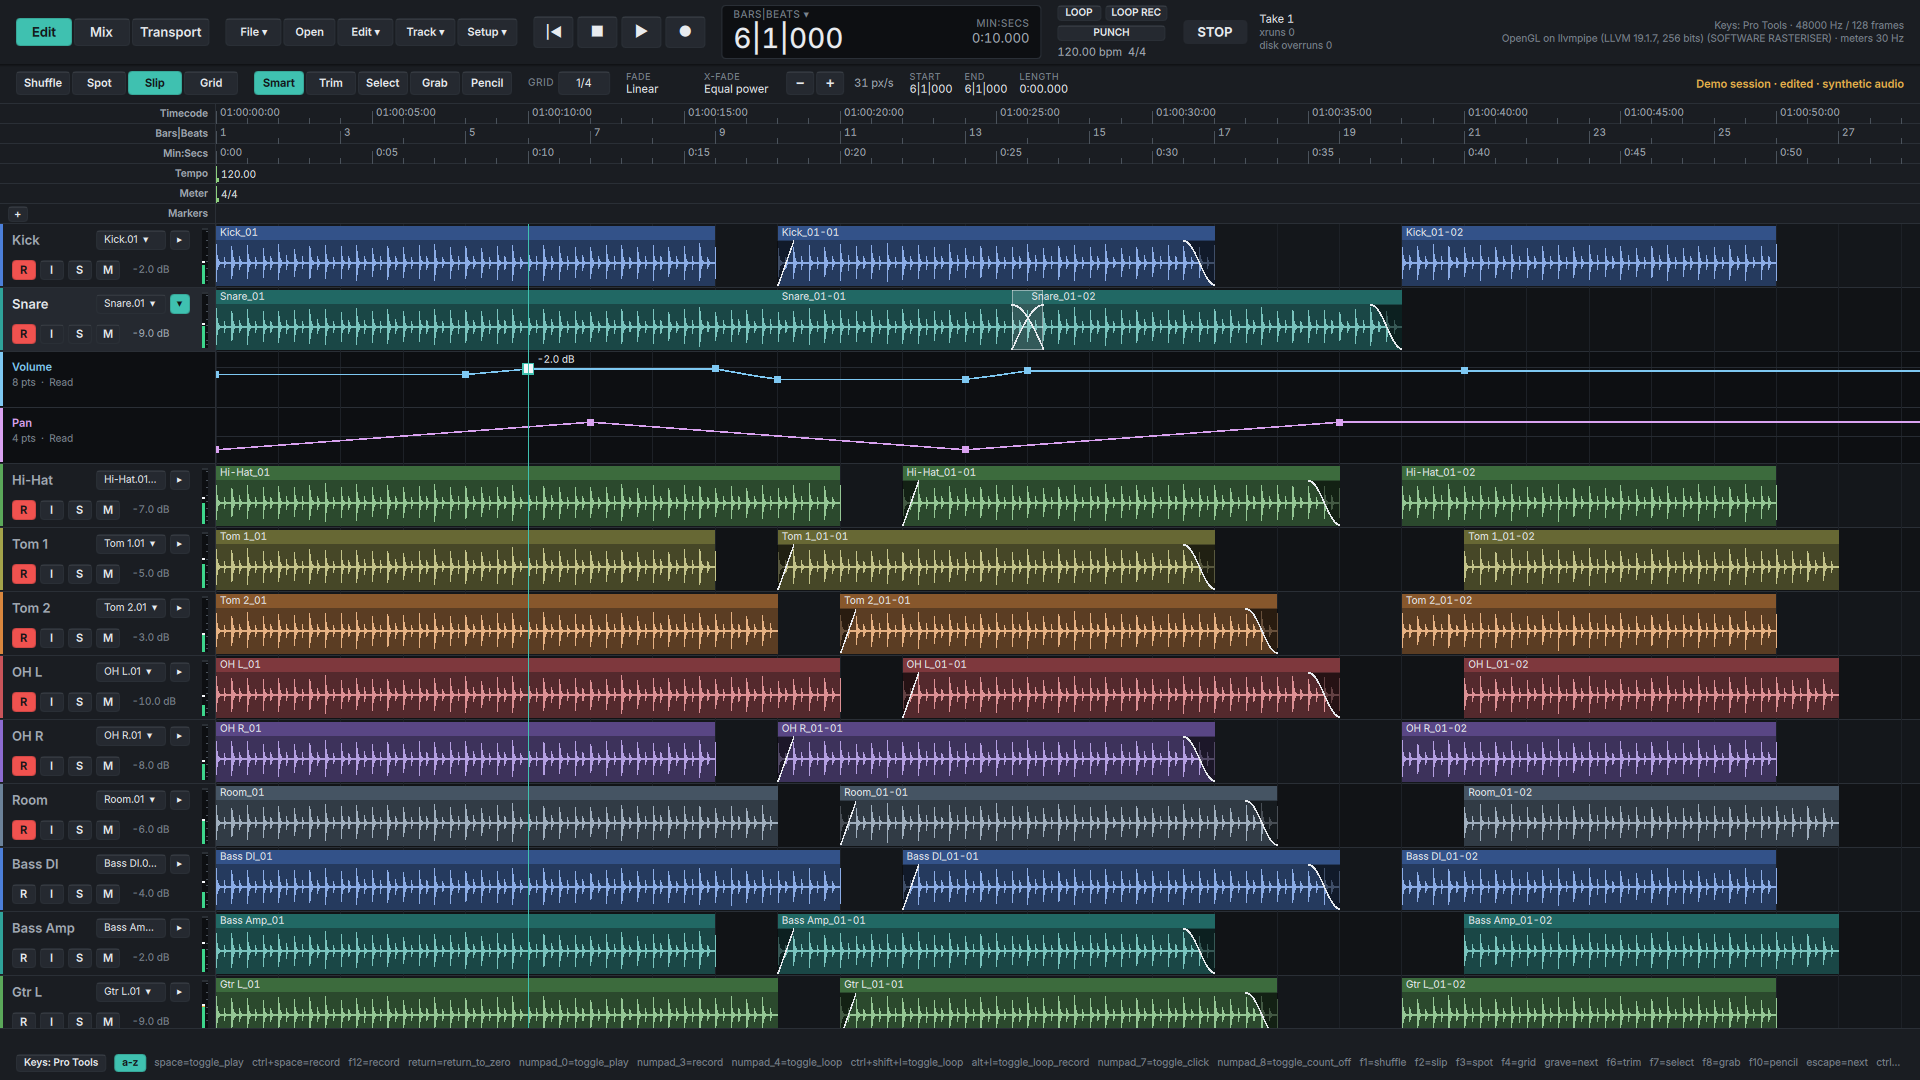
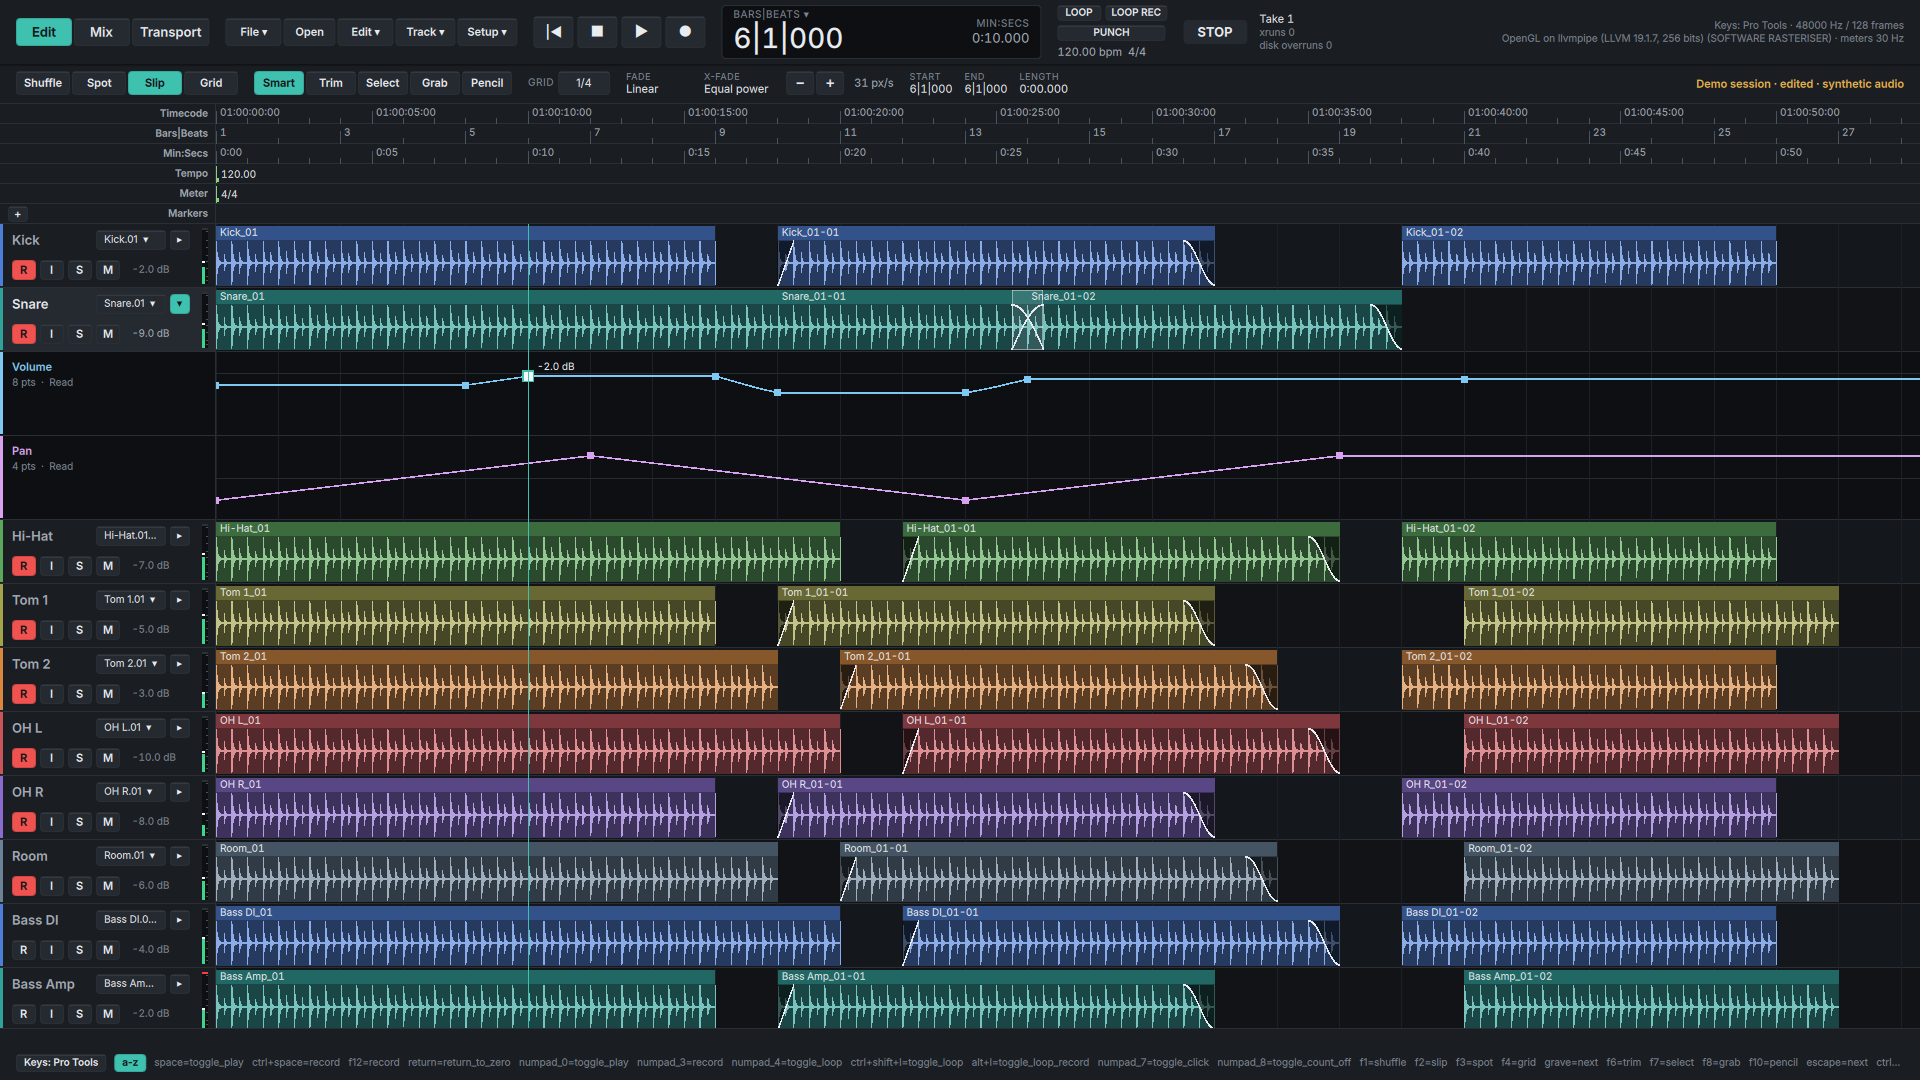
Automation lanes grow with the vertical zoom

diff --git a/ui/qt/tests/test_automation.cpp b/ui/qt/tests/test_automation.cpp
@@ -252,6 +252,27 @@ int test_rows() {
     return 0;
 }
 
+int test_lane_height_follows_zoom() {
+    ModelDocument doc(make_empty_session(3, kRate));
+    EditController ctl(doc);
+    ctl.set_viewport(1000, 600);
+    std::string why;
+    OK(ctl.toggle_autolanes(0, why));
+    const double base = ctl.view().autolane_height;
+    ctl.vertical_zoom(true);
+    OK(ctl.view().autolane_height > base);
+    OK(std::fabs(ctl.view().autolane_height - base * 1.5) < 1e-6);
+    // The rows below follow it.
+    OK(std::fabs(ctl.view().y_of_track(1) - (ctl.view().track_height + 2 * base * 1.5)) < 1e-6);
+    ctl.vertical_zoom(false);
+    ctl.vertical_zoom(false);
+    OK(ctl.view().autolane_height < base);
+    OK(ctl.view().autolane_height >= 32.0);
+    for (int i = 0; i < 20; ++i) ctl.vertical_zoom(true);
+    OK(ctl.view().autolane_height <= 224.0);
+    return 0;
+}
+
 int test_gestures() {
     ModelDocument doc(make_empty_session(2, kRate));
     EditController ctl(doc);
@@ -461,7 +482,7 @@ int test_scene() {
 }  // namespace
 
 int main() {
-    if (test_values() || test_operations() || test_stroke() || test_clip() || test_rows() ||
+    if (test_values() || test_operations() || test_stroke() || test_clip() || test_rows() || test_lane_height_follows_zoom() ||
         test_gestures() || test_range_commands() || test_scene()) {
         return 1;
     }

diff --git a/ui/qt/src/edit_controller.cpp b/ui/qt/src/edit_controller.cpp
@@ -401,6 +401,10 @@ bool EditController::zoom_toggle(std::string& why) {
 
 void EditController::vertical_zoom(bool in) {
     view_.wave_scale = std::clamp(view_.wave_scale * (in ? 1.5f : 1.0f / 1.5f), 0.25f, 8.0f);
+    // Lanes grow with the waveforms so a curve can be edited as finely as a
+    // clip is read; the clamp keeps a lane usable at both ends.
+    view_.autolane_height = std::clamp(ViewState::kAutolaneBaseHeight * view_.wave_scale, 32.0, 224.0);
+    clamp_scroll();
 }
 
 void EditController::scroll_by(double dx_px, double dy_px) {

diff --git a/ui/qt/src/edit_controller.h b/ui/qt/src/edit_controller.h
@@ -57,7 +57,8 @@ struct ViewState {
     // track i's top in row pixels and `tops[n]` the end of the last; empty
     // when no track discloses lanes, and every track is then `track_height`
     // tall. `open[i]` says track i shows its lanes.
-    double autolane_height = 56.0;
+    static constexpr double kAutolaneBaseHeight = 56.0;  // at wave_scale 1
+    double autolane_height = kAutolaneBaseHeight;
     std::vector<double> tops;
     std::vector<std::uint8_t> open;
 

diff --git a/ui/qt/src/scenes/edit_automation.cpp b/ui/qt/src/scenes/edit_automation.cpp
@@ -28,6 +28,7 @@ void gestures(ShotContext c) {
     EditController& edit = c.session.controller();
     const auto bar = static_cast<model::Frames>(edit.snapshot().settings.sample_rate * 2);
     c.model.invoke(QStringLiteral("zoom.fit_session"), -1);
+    c.model.invoke(QStringLiteral("zoom.vertical_in"), -1);   // the lanes grow with it
     const ViewState& v = edit.view();
     std::string ignored;
     edit.set_tool(Tool::Select);

diff --git a/planning/BACKLOG.md b/planning/BACKLOG.md
@@ -953,7 +953,7 @@ Against `common/model` and `FakeEngine` now; wired to M4 when it lands.
       freely and is thinned at the release, the Selector selects a range of a
       lane and Cut, Copy, Paste and Clear act on it; each gesture is one
       `EditAutomation`, so one undo step. Screenshot `edit-automation`.
-- [ ] `automation.lanes` follow-ups: Thin as its own command on a range
+- [ ] `automation.lanes` follow-ups (lane height following the vertical zoom is done): Thin as its own command on a range
       (`automation.thin`, needs a command id and a key map entry),
       a `Compound` of several lanes when a range spans tracks (the Selector is
       one lane on one track for now), Trim mode's relative edit of a range,
